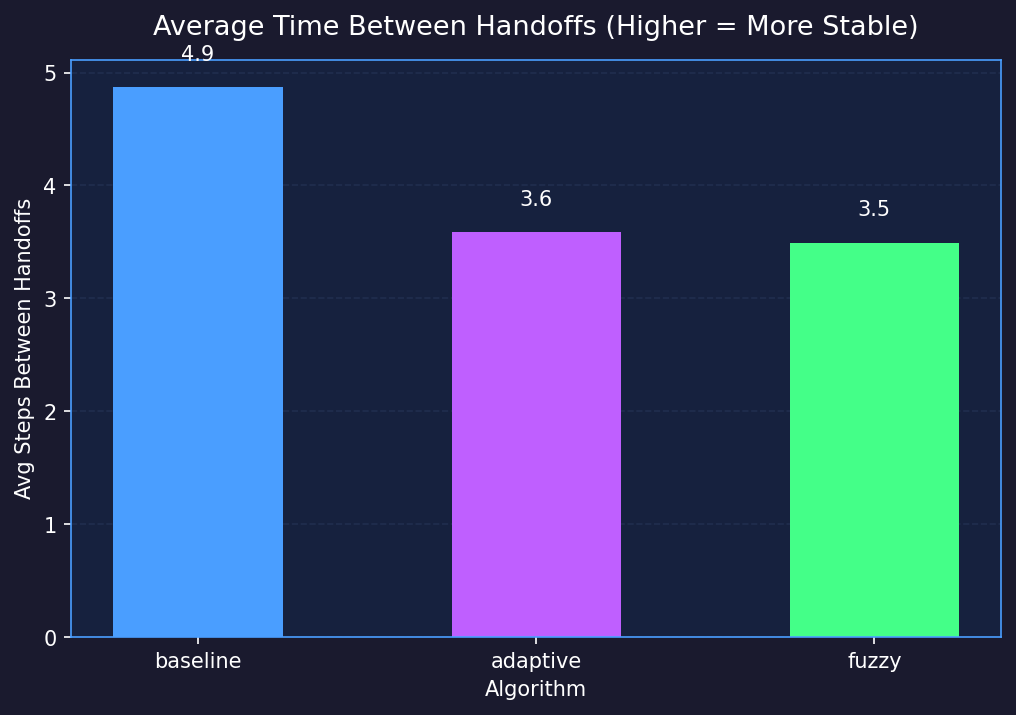
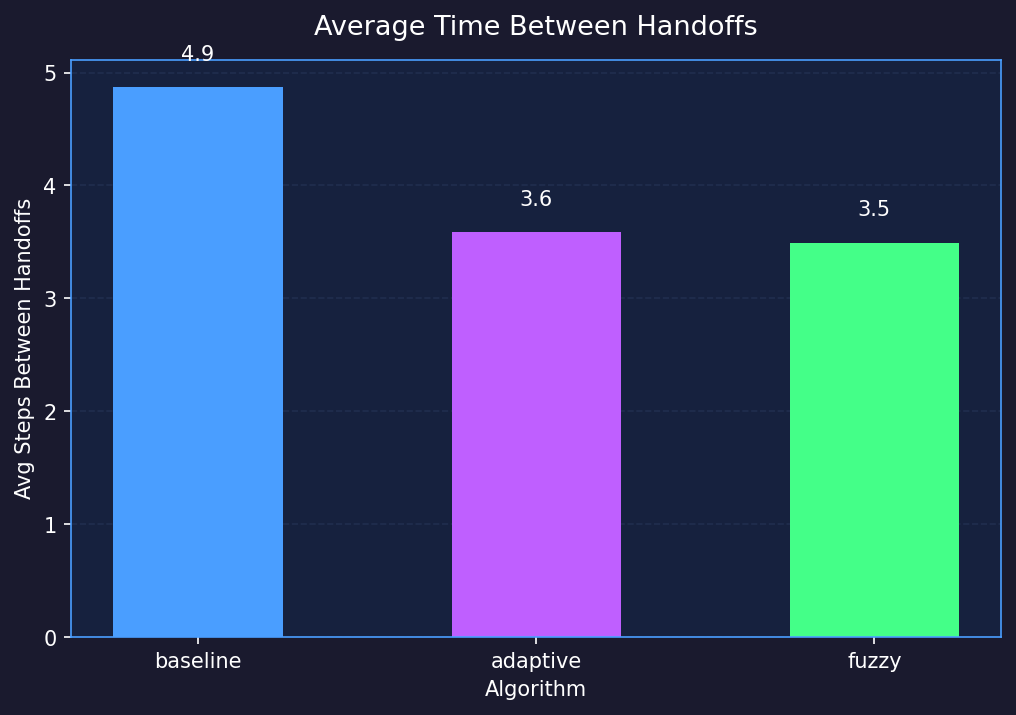
tiny cleanup

Changed region(s): [[0.1526, 0.0, 0.9154, 0.0615]]

diff --git a/Scripts/graphs.py b/Scripts/graphs.py
@@ -222,64 +222,34 @@ def plot_snr_distribution(all_results):
     apply_dark_style(ax, "SNR Distribution per Algorithm (Mean ± Range)", "Algorithm", "SNR (dB)")
     save_fig("5_snr_distribution.png")
 
-
-def plot_quality_distribution(all_results, mobile_stations):
+# 6. Drops by speed category per algorithm
+def plot_drops_by_speed(all_results, mobile_stations):
     fig, ax = plt.subplots(figsize=(10, 5))
     fig.patch.set_facecolor('#1a1a2e')
 
-    quality_colors = {
-        "Excellent": "#44ff88",
-        "Good":      "#4a9eff",
-        "Fair":      "#ffaa00",
-        "Poor":      "#ff4444"
-    }
+    speed_categories = ["stationary", "slow", "fast", "very_fast"]
+    x     = range(len(speed_categories))
+    width = 0.25
 
-    x     = range(len(ALGORITHMS))
-    width = 0.2
-    categories = ["Excellent", "Good", "Fair", "Poor"]
+    for idx, alg in enumerate(ALGORITHMS):
+        drops = []
+        for category in speed_categories:
+            ms_ids       = [ms.id for ms in mobile_stations if ms.get_speed_category() == category]
+            total_drops  = len([d for d in all_results[alg].call_drops if d[1] in ms_ids])
+            drops.append(total_drops)
 
-    for i, alg in enumerate(ALGORITHMS):
-        rss_log = all_results[alg].rss_log
+        offset = (idx - 1) * width
+        bars   = ax.bar([i + offset for i in x], drops, width, label=alg, color=COLORS[alg])
 
-        ms_avg_snr = {}
-        for time, ms_id, snr in all_results[alg].snr_log:
-            ms_avg_snr.setdefault(ms_id, []).append(snr)
-
-        counts = {"Excellent": 0, "Good": 0, "Fair": 0, "Poor": 0}
-        for ms in mobile_stations:
-            snrs = ms_avg_snr.get(ms.id, [])
-            if not snrs:
-                continue
-            avg = sum(snrs) / len(snrs)
-            if avg >= 67.5:
-                counts["Excellent"] += 1
-            elif avg >= 65.5:
-                counts["Good"] += 1
-            elif avg >= 63.75:
-                counts["Fair"] += 1
-            else:
-                counts["Poor"] += 1
-
-        bottom = 0
-        for category in categories:
-            val = counts[category]
-            bar = ax.bar(i, val, width=0.5, bottom=bottom,
-                        color=quality_colors[category],
-                        label=category if i == 0 else "")
-            if val > 0:
-                padding = 1.5
-
-                ax.text(i - 0.15, bottom + val - padding, str(val),
-                        ha='right', va='top',
-                        color='black', fontsize=8, fontweight='bold')
-            bottom += val
+        for bar, val in zip(bars, drops):
+            ax.text(bar.get_x() + bar.get_width() / 2, bar.get_height() + 0.2,
+                    str(val), ha='center', va='bottom', color='white', fontsize=8)
 
     ax.set_xticks(list(x))
-    ax.set_xticklabels(ALGORITHMS)
+    ax.set_xticklabels(speed_categories)
     ax.legend(facecolor='#16213e', edgecolor='#4a9eff', labelcolor='white')
-    apply_dark_style(ax, "Call Quality Distribution per Algorithm",
-                    "Algorithm", "Number of MSs")
-    save_fig("10_quality_distribution.png")
+    apply_dark_style(ax, "Call Drops by Speed Category", "Speed Category", "Drop Count")
+    save_fig("6_drops_by_speed.png")
 
 
 #graph 7: handoff delay per algorithm (cumulative handoffs over time)
@@ -354,10 +324,69 @@ def plot_avg_time_between_handoffs(all_results):
         ax.text(bar.get_x() + bar.get_width() / 2, bar.get_height() + 0.2,
                 f'{val:.1f}', ha='center', va='bottom', color='white', fontsize=10)
 
-    apply_dark_style(ax, "Average Time Between Handoffs (Higher = More Stable)",
+    apply_dark_style(ax, "Average Time Between Handoffs",
                     "Algorithm", "Avg Steps Between Handoffs")
     save_fig("9_avg_time_between_handoffs.png")
 
+
+# 10. Quality distribution per algorithm
+def plot_quality_distribution(all_results, mobile_stations):
+    fig, ax = plt.subplots(figsize=(10, 5))
+    fig.patch.set_facecolor('#1a1a2e')
+
+    quality_colors = {
+        "Excellent": "#44ff88",
+        "Good":      "#4a9eff",
+        "Fair":      "#ffaa00",
+        "Poor":      "#ff4444"
+    }
+
+    x     = range(len(ALGORITHMS))
+    width = 0.2
+    categories = ["Excellent", "Good", "Fair", "Poor"]
+
+    for i, alg in enumerate(ALGORITHMS):
+        rss_log = all_results[alg].rss_log
+
+        ms_avg_snr = {}
+        for time, ms_id, snr in all_results[alg].snr_log:
+            ms_avg_snr.setdefault(ms_id, []).append(snr)
+
+        counts = {"Excellent": 0, "Good": 0, "Fair": 0, "Poor": 0}
+        for ms in mobile_stations:
+            snrs = ms_avg_snr.get(ms.id, [])
+            if not snrs:
+                continue
+            avg = sum(snrs) / len(snrs)
+            if avg >= 67.5:
+                counts["Excellent"] += 1
+            elif avg >= 65.5:
+                counts["Good"] += 1
+            elif avg >= 63.75:
+                counts["Fair"] += 1
+            else:
+                counts["Poor"] += 1
+
+        bottom = 0
+        for category in categories:
+            val = counts[category]
+            bar = ax.bar(i, val, width=0.5, bottom=bottom,
+                        color=quality_colors[category],
+                        label=category if i == 0 else "")
+            if val > 0:
+                padding = 1.5
+
+                ax.text(i - 0.15, bottom + val - padding, str(val),
+                        ha='right', va='top',
+                        color='black', fontsize=8, fontweight='bold')
+            bottom += val
+
+    ax.set_xticks(list(x))
+    ax.set_xticklabels(ALGORITHMS)
+    ax.legend(facecolor='#16213e', edgecolor='#4a9eff', labelcolor='white')
+    apply_dark_style(ax, "Call Quality Distribution per Algorithm",
+                    "Algorithm", "Number of MSs")
+    save_fig("10_quality_distribution.png")
 
 # generates all the graphs
 # Call this from sim.py after run_all_simulations

diff --git a/Scripts/base_station.py b/Scripts/base_station.py
@@ -1,3 +1,4 @@
+
 #Group 6
 #Adam Tremblay - 101264116
 #Michael Roy - 101260953
@@ -6,12 +7,12 @@
 import random
 import math
 
-# Fuzzy scoring thresholds
+#Fuzzy scoring thresholds
 RSS_THRESHOLDS  = {"low": -40, "high": -10}   # dBm
 SNR_THRESHOLDS  = {"low": 63,  "high": 68}    # dB
 LOAD_THRESHOLDS = {"low": 20, "high": 80}    # %
  
-# FFDS weights 
+#FFDS weights 
 FFDS_WEIGHTS    = {"rss": 0.40, "snr": 0.40, "load": 0.20}
 #These thresholds and weights can be adjusted if needed
 
@@ -39,7 +40,7 @@ def fuzzy_score(value, low_thresh, high_thresh, invert=False):
 class BaseStation:
     # It has an id, location (x,y), power, noise level, congestion level, and coverage radius
     def __init__(self, id, x, y, power, noise, congestion, coverage_radius):
-        #unique identifier for the base station
+        #Unique identifier for the base station
         self.id = id
 
         #Base station location
@@ -96,12 +97,12 @@ class BaseStation:
         if distance == 0:
             distance = 0.1
         
-        # Free space path loss equation
+        #Free space path loss equation
         path_loss = 10 * 2.0 * math.log10(distance)
         noise = random.gauss(0, self.noise)
         congestion_penalty = len(self.active_calls) * self.congestion
         
-        # Simplified RSS model for simulation, does not need wavelength or frequency
+        #Simplified RSS model for simulation, does not need wavelength or frequency
         rss = self.power - path_loss - congestion_penalty + noise
         return rss
     

diff --git a/Scripts/network.py b/Scripts/network.py
@@ -9,6 +9,8 @@ import random
 from base_station import BaseStation
 from mobile_station import MobileStation
 
+BS_SEED = 12345
+
 class Network:
     #Initialize the network with empty lists of BSs and MSs, and set the grid bounds
     def __init__(self, bounds=(0, 1000, 0, 1000)):
@@ -28,7 +30,7 @@ class Network:
         self.base_stations = []
 
         # fixed seed so BSs are deterministic
-        rng = random.Random(12345)  
+        rng = random.Random(BS_SEED)  
 
         for i, (x, y) in enumerate(centers):
             bs = BaseStation(

diff --git a/Scripts/sim.py b/Scripts/sim.py
@@ -7,7 +7,7 @@
 
 #Use a seed to keep everything deterministic across runs
 import random
-RANDOM_SEED = 6767
+RANDOM_SEED = 12345
 
 import simpy #Use Simpy for the simulation environment and event scheduling
 from network import Network
